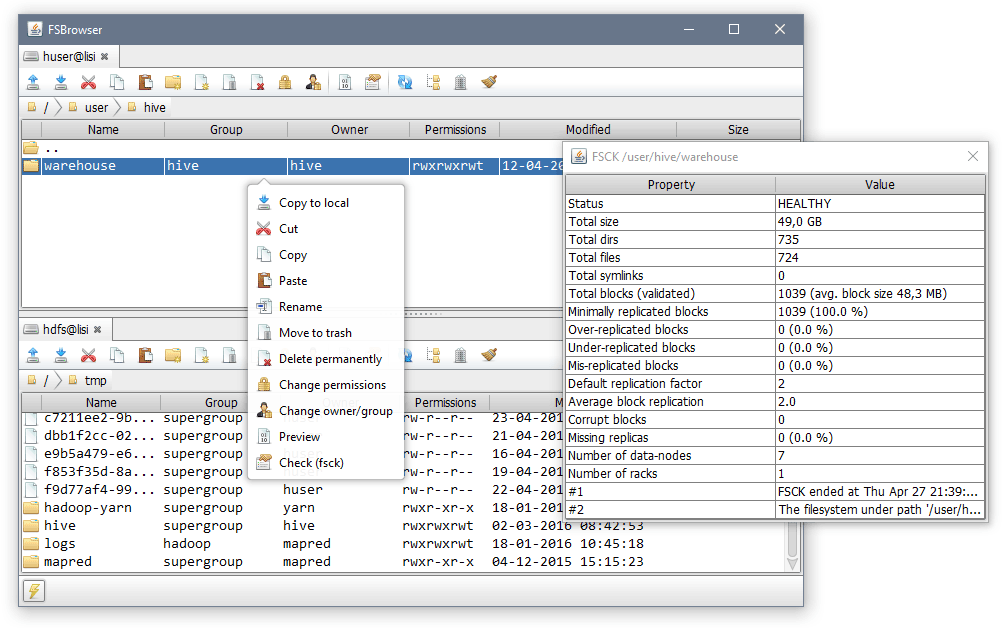
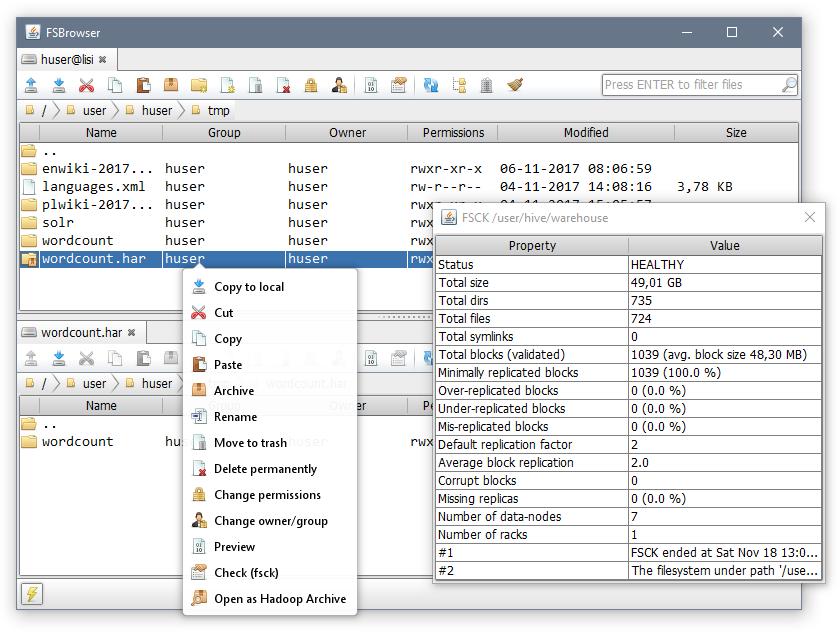
Updated README

diff --git a/README.md b/README.md
@@ -1,26 +1,31 @@
 # FSBrowser
 
-FSBrowser is a simple desktop interface for Hadoop Distributed File System. 
-The application can be used as a more efficient alternative to Hue's file browser. 
-It uses native hadoop libraries instead of HttpFS and should be faster for reading and writing directories with large number of files.
+FSBrowser is a desktop GUI client for Hadoop Distributed File System. 
+The application can be used as a more efficient alternative to Hue's file browser, especially on IO heavy operations,  since it 
+is based on native hadoop libraries instead of HttpFS.
 
 ![app](images/app.png)
 
 ### Features
-- Sending files / directories between local file system and HDFS
-- Reading directories with millions of files
-- Multiple active connections (tabs)
-- GUI interface for hadoop commandline tools
+* Sending files and directories:
+  * Between local file system and HDFS
+  * Between different HDFS clusters (DistCp)
+* Browsing, searching, sorting directories with milions of files
+* Support for creating and browsing Hadoop Archives (HARs)
+* GUI interface for hadoop tools:
+  * Distributed copy (DistCp)
+  * File System Check (fsck)
+* Utils for cleaning temporary and staging directories
+* Multiple active connections (tabs)
 
 ### Installation
 
-Maven and JDK8 are the only compile-time prerequisites. Build application with `mvn package`. 
+1. Maven and JDK8 are the only compile-time prerequisites. Build application with `mvn package`. 
+2. Run `java -jar target/fsbrowser.jar`.
 
-Run `target/fsbrowser.jar`.
-
-Note that on Windows some actions require additional native hadoop libraries (i.e. copying files between two clusters).
+Note that some actions require additional native hadoop libraries (for example DistCp or Hadoop Archive tools).
 While FSBrowser will run without them, it's recommended to have them installed.
-You can download precompiled binary package [here](https://github.com/sardetushar/hadooponwindows/archive/master.zip).
+For Windows, you can download precompiled binary package [here](https://github.com/sardetushar/hadooponwindows/archive/master.zip).
 After extracting, set `HADOOP_HOME` environment variable to the extracted directory and add `bin` subdirectory to your `PATH` variable.
 
 ### Acknowledgments
